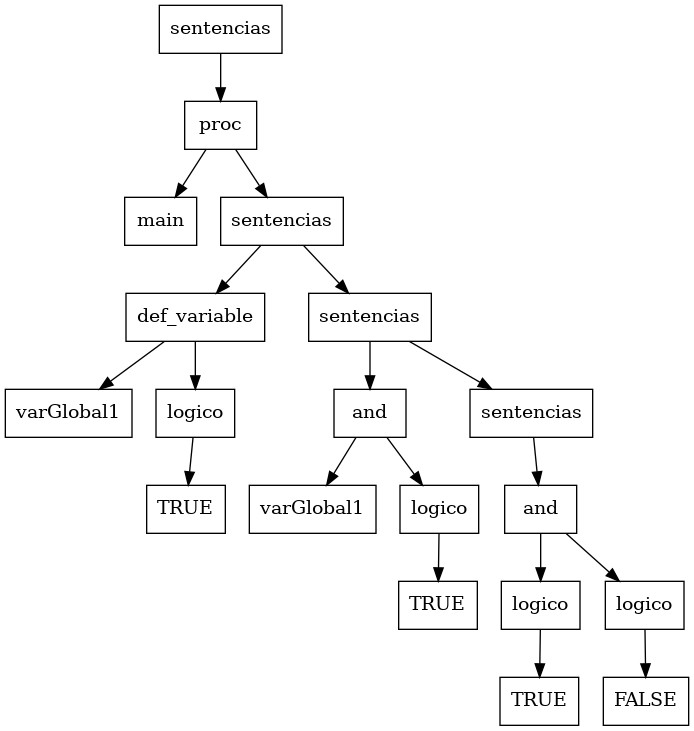
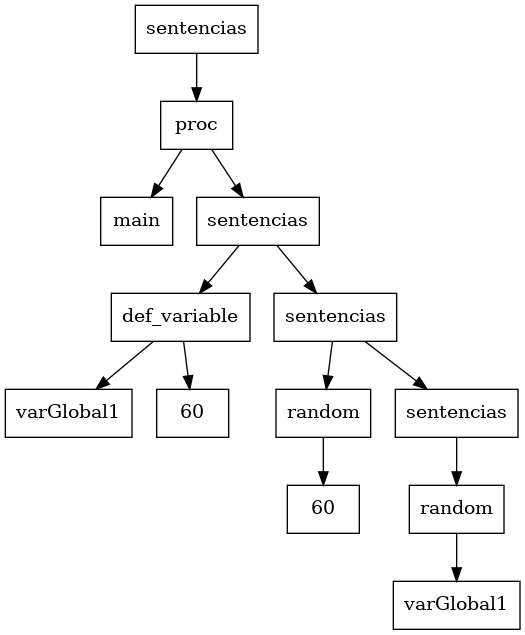
Se agregaron las funciones restantes

Changed region(s): [[0.0, 0.0, 1.0, 1.0]]

diff --git a/generator.py b/generator.py
@@ -60,6 +60,22 @@ class CodeGenerator:
             self.generar_equal(nodo)
         elif tipo == 'and':
             self.generar_and(nodo)
+        elif tipo == 'or':
+            self.generar_or(nodo)
+        elif tipo == 'greater':
+            self.generar_greater(nodo)
+        elif tipo == 'smaller':
+            self.generar_smaller(nodo)
+        elif tipo == 'sum':
+            self.generar_sum(nodo)
+        elif tipo == 'mult':
+            self.generar_mult(nodo)
+        elif tipo == 'substr':
+            self.generar_substr(nodo)
+        elif tipo == 'div':
+            self.generar_div(nodo)
+        elif tipo == 'random':
+            self.generar_random(nodo)
         else:
             print(f"Tipo de nodo no manejado: {tipo}")
 
@@ -488,12 +504,217 @@ class CodeGenerator:
 
         # Retornar la dirección donde se almacenó el resultado
         return resultado_and
+    
+    def generar_or(self, nodo):
+        # Nodo tiene la forma ('and', 'op1', 'op2')
+        op1 = nodo[1]
+        op2 = nodo[2]
 
+        # Obtener el primer operando (puede ser una variable o un valor lógico)
+        if isinstance(op1, str) and op1 in self.variables:
+            valor1 = self.builder.load(self.variables[op1], name=f"{op1}_valor")
+        elif isinstance(op1, tuple) and op1[0] == 'logico':
+            # Si es un valor lógico, convertir a constante LLVM (TRUE -> 1, FALSE -> 0)
+            valor1 = ir.Constant(ir.IntType(1), 1 if op1[1] == 'TRUE' else 0)
+        else:
+            raise ValueError(f"Operando no soportado: {op1}")
+
+        # Si el primer operando es de tipo i32, convertirlo a i1
+        if valor1.type != ir.IntType(1):
+            valor1 = self.builder.icmp_signed('!=', valor1, ir.Constant(ir.IntType(32), 0))
+
+        # Obtener el segundo operando (puede ser una variable o un valor lógico)
+        if isinstance(op2, str) and op2 in self.variables:
+            valor2 = self.builder.load(self.variables[op2], name=f"{op2}_valor")
+        elif isinstance(op2, tuple) and op2[0] == 'logico':
+            # Si es un valor lógico, convertir a constante LLVM (TRUE -> 1, FALSE -> 0)
+            valor2 = ir.Constant(ir.IntType(1), 1 if op2[1] == 'TRUE' else 0)
+        else:
+            raise ValueError(f"Operando no soportado: {op2}")
+
+        # Si el segundo operando es de tipo i32, convertirlo a i1
+        if valor2.type != ir.IntType(1):
+            valor2 = self.builder.icmp_signed('!=', valor2, ir.Constant(ir.IntType(32), 0))
+
+        # Realizar la operación lógica AND
+        resultado = self.builder.or_(valor1, valor2)
+
+        # Almacenar el resultado en una variable
+        resultado_or = self.builder.alloca(ir.IntType(1), name="resultado_or")
+        self.builder.store(resultado, resultado_or)
+
+        # Retornar la dirección donde se almacenó el resultado
+        return resultado_or
+    
+    def generar_greater(self, nodo):
+        # Nodo tiene la forma ('greater', 'op1', 'op2')
+        op1 = nodo[1]
+        op2 = nodo[2]
+
+        # Obtener el primer operando (puede ser una variable o un valor constante)
+        if isinstance(op1, str) and op1 in self.variables:
+            valor1 = self.builder.load(self.variables[op1], name=f"{op1}_valor")
+        else:
+            valor1 = ir.Constant(ir.IntType(32), op1)
+
+        # Obtener el segundo operando (puede ser una variable o un valor constante)
+        if isinstance(op2, str) and op2 in self.variables:
+            valor2 = self.builder.load(self.variables[op2], name=f"{op2}_valor")
+        else:
+            valor2 = ir.Constant(ir.IntType(32), op2)
+
+        # Generar la comparación "mayor que" (>)
+        resultado = self.builder.icmp_signed('>', valor1, valor2)
+
+        # Almacenar el resultado en una variable
+        resultado_greater = self.builder.alloca(ir.IntType(1), name="resultado_greater")
+        self.builder.store(resultado, resultado_greater)
+
+        # Retornar la dirección donde se almacenó el resultado
+        return resultado_greater
+
+    def generar_smaller(self, nodo):
+        # Nodo tiene la forma ('smaller', 'op1', 'op2')
+        op1 = nodo[1]
+        op2 = nodo[2]
+
+        # Obtener el primer operando (puede ser una variable o un valor constante)
+        if isinstance(op1, str) and op1 in self.variables:
+            valor1 = self.builder.load(self.variables[op1], name=f"{op1}_valor")
+        else:
+            valor1 = ir.Constant(ir.IntType(32), op1)
+
+        # Obtener el segundo operando (puede ser una variable o un valor constante)
+        if isinstance(op2, str) and op2 in self.variables:
+            valor2 = self.builder.load(self.variables[op2], name=f"{op2}_valor")
+        else:
+            valor2 = ir.Constant(ir.IntType(32), op2)
+
+        # Generar la comparación "menor que" (<)
+        resultado = self.builder.icmp_signed('<', valor1, valor2)
+
+        # Almacenar el resultado en una variable
+        resultado_smaller = self.builder.alloca(ir.IntType(1), name="resultado_smaller")
+        self.builder.store(resultado, resultado_smaller)
+
+        # Retornar la dirección donde se almacenó el resultado
+        return resultado_smaller
+    
+    def generar_sum(self, nodo):
+        # Nodo tiene la forma ('sum', 'op1', 'op2')
+        op1 = nodo[1]
+        op2 = nodo[2]
+
+        # Obtener el primer operando (puede ser una variable o un valor constante)
+        if isinstance(op1, str) and op1 in self.variables:
+            valor1 = self.builder.load(self.variables[op1], name=f"{op1}_valor")
+        else:
+            valor1 = ir.Constant(ir.IntType(32), op1)
+
+        # Obtener el segundo operando (valor constante)
+        valor2 = ir.Constant(ir.IntType(32), op2)
+
+        # Realizar la suma
+        resultado = self.builder.add(valor1, valor2)
+
+        # Almacenar el resultado en una variable
+        resultado_sum = self.builder.alloca(ir.IntType(32), name="resultado_sum")
+        self.builder.store(resultado, resultado_sum)
+
+        # Retornar la dirección donde se almacenó el resultado
+        return resultado_sum
+
+    def generar_mult(self, nodo):
+        # Nodo tiene la forma ('mult', 'op1', 'op2')
+        op1 = nodo[1]
+        op2 = nodo[2]
+
+        # Obtener los operandos
+        valor1 = ir.Constant(ir.IntType(32), op1)
+        valor2 = ir.Constant(ir.IntType(32), op2)
+
+        # Realizar la multiplicación
+        resultado = self.builder.mul(valor1, valor2)
+
+        # Almacenar el resultado en una variable
+        resultado_mult = self.builder.alloca(ir.IntType(32), name="resultado_mult")
+        self.builder.store(resultado, resultado_mult)
+
+        # Retornar la dirección donde se almacenó el resultado
+        return resultado_mult
+
+    def generar_substr(self, nodo):
+        # Nodo tiene la forma ('substr', 'op1', 'op2')
+        op1 = nodo[1]
+        op2 = nodo[2]
+
+        # Obtener los operandos
+        valor1 = ir.Constant(ir.IntType(32), op1)
+        valor2 = ir.Constant(ir.IntType(32), op2)
+
+        # Realizar la resta
+        resultado = self.builder.sub(valor1, valor2)
+
+        # Almacenar el resultado en una variable
+        resultado_substr = self.builder.alloca(ir.IntType(32), name="resultado_substr")
+        self.builder.store(resultado, resultado_substr)
+
+        # Retornar la dirección donde se almacenó el resultado
+        return resultado_substr
+
+    def generar_div(self, nodo):
+        # Nodo tiene la forma ('div', 'op1', 'op2')
+        op1 = nodo[1]
+        op2 = nodo[2]
+
+        # Obtener los operandos
+        valor1 = ir.Constant(ir.IntType(32), op1)
+        valor2 = ir.Constant(ir.IntType(32), op2)
+
+        # Realizar la división
+        resultado = self.builder.sdiv(valor1, valor2)
+
+        # Almacenar el resultado en una variable
+        resultado_div = self.builder.alloca(ir.IntType(32), name="resultado_div")
+        self.builder.store(resultado, resultado_div)
+
+        # Retornar la dirección donde se almacenó el resultado
+        return resultado_div
+
+
+    def generar_random(self, nodo):
+        # Nodo tiene la forma ('random', 'valor')
+        valor = nodo[1]
+
+        # Obtener el rango (puede ser una constante o el valor de una variable)
+        if isinstance(valor, str) and valor in self.variables:
+            rango = self.builder.load(self.variables[valor], name=f"{valor}_valor")
+        else:
+            rango = ir.Constant(ir.IntType(32), valor)
+
+        # Llamar a la función rand() de la biblioteca estándar de C
+        rand_func = self.module.globals.get('rand')
+        if not rand_func:
+            rand_func_type = ir.FunctionType(ir.IntType(32), [])
+            rand_func = ir.Function(self.module, rand_func_type, name='rand')
+
+        # Generar el número aleatorio
+        random_value = self.builder.call(rand_func, [])
+
+        # Aplicar el módulo para limitar el rango
+        resultado = self.builder.srem(random_value, rango)
+
+        # Almacenar el resultado en una variable
+        resultado_random = self.builder.alloca(ir.IntType(32), name="resultado_random")
+        self.builder.store(resultado, resultado_random)
+
+        # Retornar la dirección donde se almacenó el resultado
+        return resultado_random
 
 
 
 # Ejemplo de AST de entrada con un for loop
-ast = ('sentencias', ('proc', 'main', ('sentencias', ('def_variable', 'varGlobal1', ('logico', 'TRUE')), ('sentencias', ('and', 'varGlobal1', ('logico', 'TRUE')), ('sentencias', ('and', ('logico', 'TRUE'), ('logico', 'FALSE')))))))
+ast = ('sentencias', ('proc', 'main', ('sentencias', ('def_variable', 'varGlobal1', 60), ('sentencias', ('random', 60), ('sentencias', ('random', 'varGlobal1'))))))
 
 
 

diff --git a/semantico.py b/semantico.py
@@ -118,7 +118,7 @@ class AnalizadorSemantico:
                 self.analizar_smaller(nodo, alcance)
 
             # Analizar Substr(x,y)
-            elif tipo_nodo == 'substract':
+            elif tipo_nodo == 'substr':
                 self.analizar_substract(nodo, alcance)
 
             # Analizar Random(x,y)
@@ -1136,9 +1136,9 @@ if __name__ == "__main__":
     Proc main()
         [
             // Define variable global
-            Def(varGlobal1, TRUE);
-            And(varGlobal1,TRUE)
-            And(TRUE,FALSE)
+            Def(varGlobal1, 60);
+            Random(60)
+            Random(varGlobal1)
         ];
     End;
     '''
